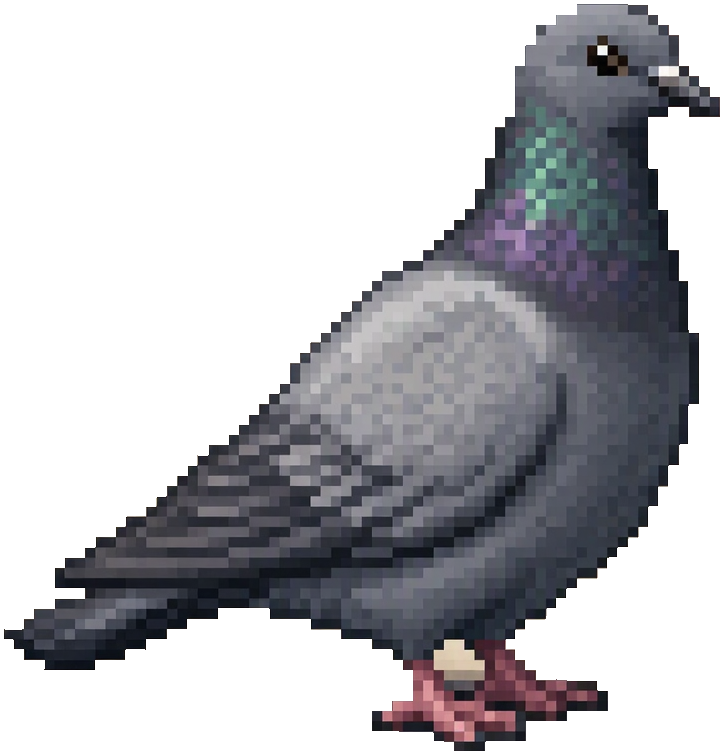
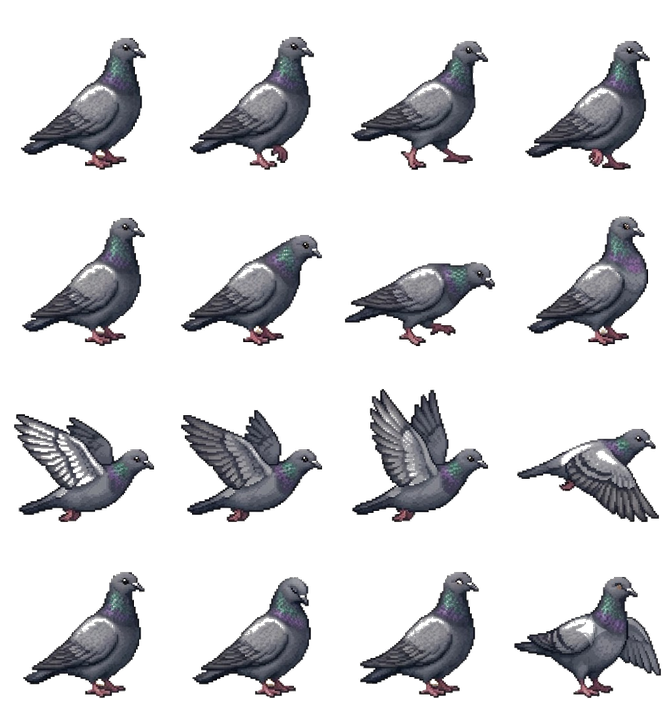
Add pigeon enemy to the Skate Park (ground + swooping variants)
Wire up the pigeon sprite sheet (4x4, 168x176, left-facing) with idle/walk/fly
animations and two behaviours:
- pigeon (pwalk): ambles back and forth, breaks into occasional runs, hops at
  random (flaps while airborne). Grounded.
- pigeonFly (pswoop): starts airborne and dive-bombs the player — pursues
  horizontally, dives when overhead, climbs back to cruise height otherwise.

Generalised enemy facing to honour left-facing sheets in these motions, and
replaced the Skate Park's three geese with two ground pigeons + one swooper.

diff --git a/src/entities/Enemy.js b/src/entities/Enemy.js
@@ -16,9 +16,16 @@ const ALIEN_VSPEED = 95; // vertical zig speed (up/down legs form the V/X)
 const ALIEN_VLEG = 900; // ms per vertical leg before flipping direction
 const DANCE_SWAY = 60; // side-to-side sway speed
 const DANCE_HOP = 170; // occasional little hop
+const PIGEON_WALK = 40; // ground pigeon amble
+const PIGEON_RUN = 100; // occasional run burst
+const PIGEON_PATROL = 130; // patrol half-range
+const PIGEON_HOP = 210; // random little hop
+const PIGEON_SWOOP_H = 130; // swooper max horizontal pursuit speed
+const PIGEON_SWOOP_V = 120; // swooper max vertical dive/climb speed
+const PIGEON_SWOOP_RANGE = 240; // horizontal range within which it dives at the player
 
 // Motions that fly (no gravity, no floor collision).
-const FLYING_MOTIONS = new Set(['fly', 'vfly']);
+const FLYING_MOTIONS = new Set(['fly', 'vfly', 'pswoop']);
 
 // Enemy kinds are defined in enemyConfig's ENEMY_TYPES registry (art + motion).
 // All are lethal on side/below contact but squashed when stomped. Motions:
@@ -53,12 +60,22 @@ export class Enemy extends Phaser.GameObjects.Sprite {
     this.anim = usesAnim ? cfg.anim : null; // starting animation
     // Sheets facing left (moose) flip the opposite way to the right-facing default.
     this.facesLeft = cfg.facing === 'left';
-    // Charge motion swaps between a plod and a stampede animation.
+    // Named animations (used by charge/pigeon motions that swap between them).
     this.walkAnim = cfg.anims?.walk || this.anim;
     this.chargeAnim = cfg.anims?.charge || this.anim;
+    this.flyAnim = cfg.anims?.fly || this.anim;
+    this.idleAnim = cfg.anims?.idle || this.anim;
+    this.pigeonRunUntil = 0;
     this.initialX = x;
     this.initialY = spawnY;
-    const patrol = motion === 'patrolPause' ? BEER_PATROL : motion === 'vfly' ? ALIEN_PATROL : FLY_PATROL;
+    const patrol =
+      motion === 'patrolPause'
+        ? BEER_PATROL
+        : motion === 'vfly'
+        ? ALIEN_PATROL
+        : motion === 'pwalk'
+        ? PIGEON_PATROL
+        : FLY_PATROL;
     this.minX = x - patrol;
     this.maxX = x + patrol;
     this.dir = -1; // start toward the incoming player
@@ -182,6 +199,46 @@ export class Enemy extends Phaser.GameObjects.Sprite {
       if (wantAnim) {
         this.play(wantAnim, true); // ignoreIfPlaying — won't restart each frame
       }
+    } else if (this.motion === 'pwalk') {
+      // Ground pigeon: amble back and forth, break into an occasional run, and
+      // hop at random. Turns at the patrol edges or a wall.
+      if (this.x <= this.minX || this.body.blocked.left) {
+        this.dir = 1;
+      } else if (this.x >= this.maxX || this.body.blocked.right) {
+        this.dir = -1;
+      }
+      if (this.scene.time.now >= this.pigeonRunUntil && Math.random() < 0.004) {
+        this.pigeonRunUntil = this.scene.time.now + Phaser.Math.Between(500, 1100);
+      }
+      const running = this.scene.time.now < this.pigeonRunUntil;
+      this.body.setVelocityX((running ? PIGEON_RUN : PIGEON_WALK) * this.dir);
+      if (this.body.blocked.down && Math.random() < 0.012) {
+        this.body.setVelocityY(-PIGEON_HOP);
+      }
+      this.setFlipX(this.facesLeft ? this.dir > 0 : this.dir < 0);
+      // Flap while airborne (hopping), otherwise strut.
+      const want = this.body.blocked.down ? this.walkAnim : this.flyAnim;
+      if (want) {
+        this.play(want, true);
+      }
+    } else if (this.motion === 'pswoop') {
+      // Swooping pigeon: pursue the player horizontally, diving toward them when
+      // roughly overhead and climbing back to cruise height once they slip past.
+      const player = this.scene.playerMain;
+      if (player) {
+        const dx = player.x - this.x;
+        this.dir = dx < 0 ? -1 : 1;
+        this.body.setVelocityX(Phaser.Math.Clamp(dx * 2, -PIGEON_SWOOP_H, PIGEON_SWOOP_H));
+        const overhead = Math.abs(dx) < PIGEON_SWOOP_RANGE;
+        const targetY = overhead ? player.y - 8 : this.initialY;
+        this.body.setVelocityY(Phaser.Math.Clamp((targetY - this.y) * 3, -PIGEON_SWOOP_V, PIGEON_SWOOP_V));
+      } else {
+        this.body.setVelocity(0, 0);
+      }
+      this.setFlipX(this.facesLeft ? this.dir > 0 : this.dir < 0);
+      if (this.flyAnim) {
+        this.play(this.flyAnim, true);
+      }
     } else {
       if (this.body.blocked.left) {
         this.dir = 1;
@@ -216,6 +273,7 @@ export class Enemy extends Phaser.GameObjects.Sprite {
     this.dir = -1;
     this.paused = false;
     this.charging = false;
+    this.pigeonRunUntil = 0;
     if (this.motion === 'vfly') {
       this.nextFireAt = this.scene.time.now + Phaser.Math.Between(800, 2500);
     }

diff --git a/src/config/enemyConfig.js b/src/config/enemyConfig.js
@@ -8,6 +8,7 @@ import gooseFlap from '../../art/enemies/Goose/Flap.png';
 import beerImg from '../../art/enemies/Beer/beer.png';
 import alienImg from '../../art/enemies/Alien/alien.png';
 import mooseImg from '../../art/enemies/moose/moose.png';
+import pigeonImg from '../../art/enemies/pigeon/pigeon.png';
 
 export const ENEMY_FRAME = 64;
 
@@ -36,6 +37,16 @@ const MOOSE_ANIMS = {
   'moose-charge': { frames: [12, 13, 14, 15], frameRate: 14 }
 };
 
+// Pigeon: a 4x4 grid sheet (168x176 frames, facing left) — idle (row 0), walk
+// (row 1), fly (row 2, wings out). Used by both the ground and swooping variants.
+const PIGEON_TEXTURE = 'pigeon-sheet';
+const PIGEON_SHEET = { url: pigeonImg, frameWidth: 168, frameHeight: 176 };
+const PIGEON_ANIMS = {
+  'pigeon-idle': { frames: [0, 1, 2, 3], frameRate: 4 },
+  'pigeon-walk': { frames: [4, 5, 6, 7], frameRate: 9 },
+  'pigeon-fly': { frames: [8, 9, 10, 11], frameRate: 12 }
+};
+
 // Hitbox inset within the 64x64 goose frame (transparent padding).
 export const GOOSE_BOX = { w: 38, h: 38, ox: 13, oy: 18 };
 
@@ -60,6 +71,30 @@ export const ENEMY_TYPES = {
     motion: 'charge',
     box: { w: 138, h: 108, ox: 34, oy: 50 }
   },
+  // Pigeon (Skate Park). Two variants share one sheet: a grounded one that walks
+  // back and forth, hops, and breaks into a run; and a swooping one that starts
+  // airborne and dive-bombs the player. Left-facing sheet.
+  pigeon: {
+    art: 'sheet',
+    texture: PIGEON_TEXTURE,
+    anim: 'pigeon-walk',
+    anims: { idle: 'pigeon-idle', walk: 'pigeon-walk', fly: 'pigeon-fly' },
+    size: 68,
+    motion: 'pwalk',
+    facing: 'left',
+    box: { w: 88, h: 92, ox: 42, oy: 58 }
+  },
+  pigeonFly: {
+    art: 'sheet',
+    texture: PIGEON_TEXTURE,
+    anim: 'pigeon-fly',
+    anims: { idle: 'pigeon-idle', walk: 'pigeon-walk', fly: 'pigeon-fly' },
+    size: 68,
+    motion: 'pswoop',
+    facing: 'left',
+    elevation: 165,
+    box: { w: 96, h: 72, ox: 38, oy: 62 }
+  },
   // Party dancers: ground placeholders (swap for sprite sheets later).
   danceGuy: { art: 'emoji', emoji: '🕺', size: 78, motion: 'dance', box: { w: 40, h: 58, ox: 19, oy: 12 } },
   danceGirl: { art: 'emoji', emoji: '💃', size: 78, motion: 'dance', box: { w: 40, h: 58, ox: 19, oy: 12 } }
@@ -82,6 +117,12 @@ export function preloadEnemies(scene) {
     scene.load.spritesheet(MOOSE_TEXTURE, MOOSE_SHEET.url, {
       frameWidth: MOOSE_SHEET.frameWidth,
       frameHeight: MOOSE_SHEET.frameHeight
+    });
+  }
+  if (!scene.textures.exists(PIGEON_TEXTURE)) {
+    scene.load.spritesheet(PIGEON_TEXTURE, PIGEON_SHEET.url, {
+      frameWidth: PIGEON_SHEET.frameWidth,
+      frameHeight: PIGEON_SHEET.frameHeight
     });
   }
 }
@@ -119,6 +160,18 @@ export function registerEnemyAnims(scene) {
     scene.anims.create({
       key,
       frames: scene.anims.generateFrameNumbers(MOOSE_TEXTURE, { frames: a.frames }),
+      frameRate: a.frameRate,
+      repeat: -1
+    });
+  });
+
+  Object.entries(PIGEON_ANIMS).forEach(([key, a]) => {
+    if (scene.anims.exists(key)) {
+      return;
+    }
+    scene.anims.create({
+      key,
+      frames: scene.anims.generateFrameNumbers(PIGEON_TEXTURE, { frames: a.frames }),
       frameRate: a.frameRate,
       repeat: -1
     });

diff --git a/src/config/worldConfig.js b/src/config/worldConfig.js
@@ -94,9 +94,9 @@ export const SEGMENTS = [
     ],
     // enemy `type`: 'walker' (default) | 'flyer'; flyer `y` = height above ground.
     enemies: [
-      { x: 400, type: 'walker' },
-      { x: 700, type: 'flyer', y: 140 },
-      { x: 950, type: 'walker' }
+      { x: 400, type: 'pigeon' },
+      { x: 700, type: 'pigeonFly', y: 150 },
+      { x: 950, type: 'pigeon' }
     ]
   },
   {